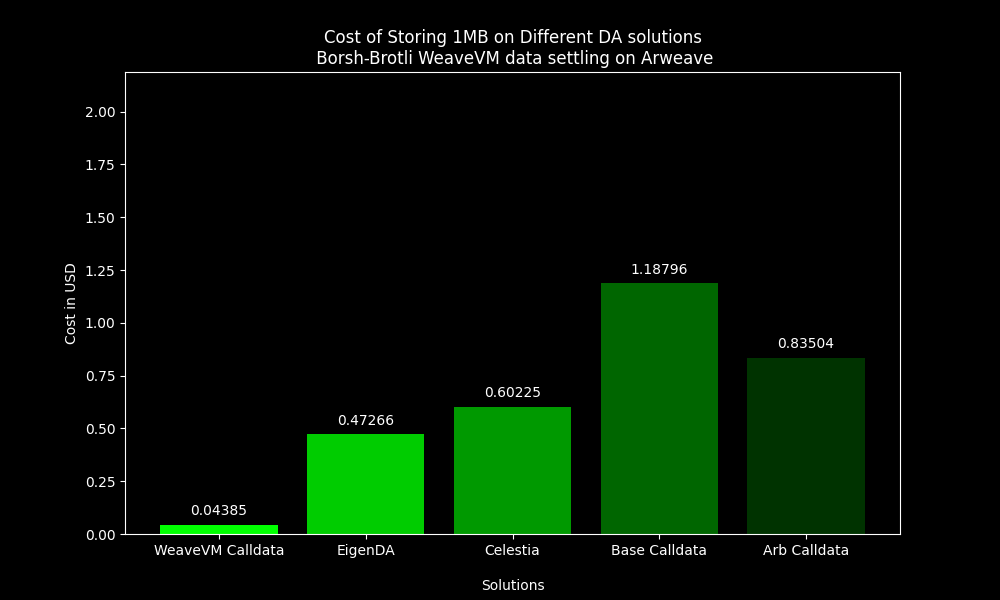
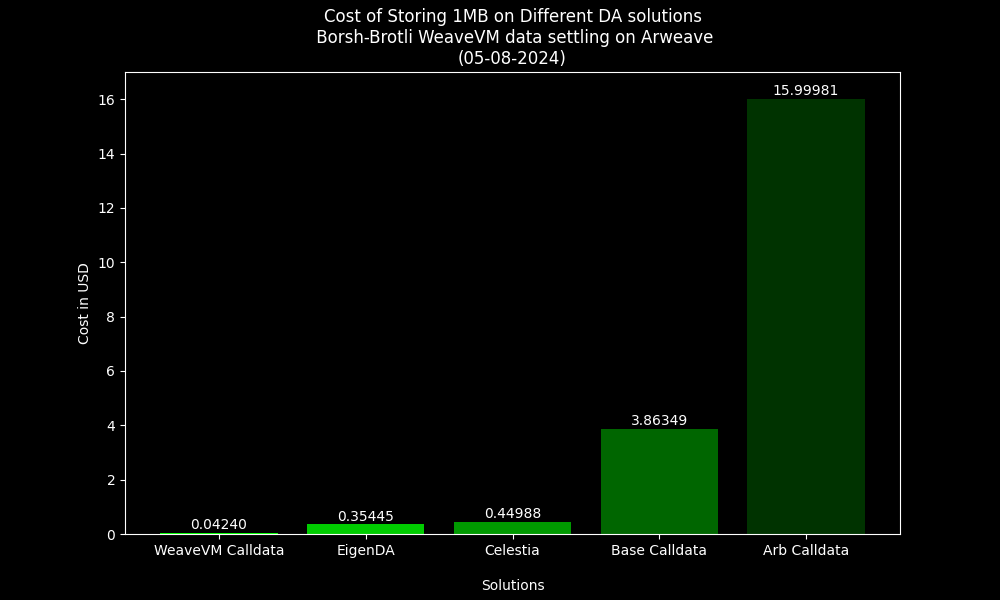
chore: refactor borsh_brotli_wvm_cost_testnet_v0.5

diff --git a/borsh_brotli_wvm_cost_testnet_v0.5/borsh_brotli_wvm_cost_testnet_v0.5.py b/borsh_brotli_wvm_cost_testnet_v0.5/borsh_brotli_wvm_cost_testnet_v0.5.py
@@ -18,27 +18,27 @@ BASE_FEE = 21_000
 CALLDATA_GAS_PER_BYTE = 16
 WVM_CALLDATA_GAS_PER_BYTE = 8
 GWEI_TO_ETH = 1e-9
-ETH_BASE_FEE_GWEI = 5
+ETH_BASE_FEE_GWEI = 55
 WVM_BASE_FEE_GWEI = 1.5
 CELESTIA_BASE_FEE_GWEI = 8
-BASE_BASE_FEE_GWEI = 0.017
-ARB_BASE_FEE_GWEI = 0.01
+BASE_BASE_FEE_GWEI = 0.03
+ARB_BASE_FEE_GWEI = 0.351
 EIGEN_DA_PER_GB_PRICE = 0.15 # 0.15 ETH
-CELETIA_GAS_PRICE = 0.0143 # uTIA source: https://celenium.io/gas
+CELETIA_GAS_PRICE = 0.0125 # uTIA source: https://celenium.io/gas
 
 ETH_PRICE = 0
 AR_PRICE = 0
 BASE_PRICE = 0
 TIA_PRICE = 0
-ARWEAVE_128KB_PRICE = 0
+ARWEAVE_1MB_PRICE = 0
 
 # for plot
-PLOT_WVM_128KB_USD_COST = 0
-PLOT_ETH_CALLDATA_128KB_USD_COST = 0
-PLOT_BASE_CALLDATA_128KB_COST = 0
-PLOT_ARB_CALLDATA_128KB_COST = 0
-PLOT_EIGENDA_CALLDATA_128KB_COST = 0
-PLOT_CELESTIA_CALLDATA_128KB_COST = 0
+PLOT_WVM_1MB_USD_COST = 0
+PLOT_ETH_CALLDATA_1MB_USD_COST = 0
+PLOT_BASE_CALLDATA_1MB_COST = 0
+PLOT_ARB_CALLDATA_1MB_COST = 0
+PLOT_EIGENDA_CALLDATA_1MB_COST = 0
+PLOT_CELESTIA_CALLDATA_1MB_COST = 0
 
 def get_winston_cost_of(input_byte):
     res = requests.get(f"https://arweave.net/price/{input_byte}")
@@ -50,8 +50,8 @@ def get_winston_cost_of(input_byte):
 # fetch winston cost to store on Arweave
 arweave_gateway_res = requests.get(ARWEAVE_1MB_BORSH_GZIP_PRICE_URL)
 if arweave_gateway_res.status_code == 200:
-    ARWEAVE_128KB_PRICE = arweave_gateway_res.text  
-    print(ARWEAVE_128KB_PRICE)
+    ARWEAVE_1MB_PRICE = arweave_gateway_res.text  
+    print(ARWEAVE_1MB_PRICE)
 else:
     print("Failed to fetch data: Status code", arweave_gateway_res.status_code)
 
@@ -69,34 +69,34 @@ if coingecko_res.status_code == 200:
 else:
     print("err: ", coingecko_res.status_code)
 
-def weavevm_128kb_usd_cost():
-    arweave_128kb_usd_cost = float(ARWEAVE_128KB_PRICE) * AR_PRICE * 1e-12
-    wvm_128kb_calldata = WVM_CALLDATA_GAS_PER_BYTE * CASE_STUDY_1MB * WVM_BASE_FEE_GWEI * GWEI_TO_ETH * 3.25
-    PLOT_WVM_128KB_USD_COST = wvm_128kb_calldata + arweave_128kb_usd_cost
-    print(PLOT_WVM_128KB_USD_COST)
-    return PLOT_WVM_128KB_USD_COST
+def weavevm_1mb_usd_cost():
+    arweave_1mb_usd_cost = float(ARWEAVE_1MB_PRICE) * AR_PRICE * 1e-12
+    wvm_1mb_calldata = WVM_CALLDATA_GAS_PER_BYTE * CASE_STUDY_1MB * WVM_BASE_FEE_GWEI * GWEI_TO_ETH * 3.25
+    PLOT_WVM_1MB_USD_COST = wvm_1mb_calldata + arweave_1mb_usd_cost
+    print(PLOT_WVM_1MB_USD_COST)
+    return PLOT_WVM_1MB_USD_COST
 
 def eth_overhead_tx_usd_cost():
     return (BASE_FEE * ETH_BASE_FEE_GWEI * GWEI_TO_ETH * ETH_PRICE)
 
-def eth_calldata_128kb_usd_cost():
-    eth_128kb_cost = CALLDATA_GAS_PER_BYTE * CASE_STUDY_1MB * ETH_BASE_FEE_GWEI * GWEI_TO_ETH * ETH_PRICE
-    print(eth_128kb_cost)
-    return eth_128kb_cost
+def eth_calldata_1mb_usd_cost():
+    eth_1mb_cost = CALLDATA_GAS_PER_BYTE * CASE_STUDY_1MB * ETH_BASE_FEE_GWEI * GWEI_TO_ETH * ETH_PRICE
+    print(eth_1mb_cost)
+    return eth_1mb_cost
 
-def base_calldata_128kb_usd_cost():
+def base_calldata_1mb_usd_cost():
     eth_settling_cost = eth_overhead_tx_usd_cost()
-    base_128kb_cost = CALLDATA_GAS_PER_BYTE * CASE_STUDY_1MB * BASE_BASE_FEE_GWEI * GWEI_TO_ETH * ETH_PRICE
-    PLOT_BASE_CALLDATA_128KB_COST = base_128kb_cost + eth_settling_cost
-    return PLOT_BASE_CALLDATA_128KB_COST
+    base_1mb_cost = CALLDATA_GAS_PER_BYTE * CASE_STUDY_1MB * BASE_BASE_FEE_GWEI * GWEI_TO_ETH * ETH_PRICE
+    PLOT_BASE_CALLDATA_1MB_COST = base_1mb_cost + eth_settling_cost
+    return PLOT_BASE_CALLDATA_1MB_COST
 
-def arb_calldata_128kb_usd_cost():
+def arb_calldata_1mb_usd_cost():
     eth_settling_cost = eth_overhead_tx_usd_cost()
-    arb_128kb_cost = CALLDATA_GAS_PER_BYTE * CASE_STUDY_1MB * ARB_BASE_FEE_GWEI * GWEI_TO_ETH * ETH_PRICE
-    PLOT_ARB_CALLDATA_128KB_COST = arb_128kb_cost + eth_settling_cost
-    return PLOT_ARB_CALLDATA_128KB_COST
+    arb_1mb_cost = CALLDATA_GAS_PER_BYTE * CASE_STUDY_1MB * ARB_BASE_FEE_GWEI * GWEI_TO_ETH * ETH_PRICE
+    PLOT_ARB_CALLDATA_1MB_COST = arb_1mb_cost + eth_settling_cost
+    return PLOT_ARB_CALLDATA_1MB_COST
 
-def eigenda_128kb_usd_cost():
+def eigenda_1mb_usd_cost():
     cost_per_gb_eth = 0.15  # Cost to store 1 GB in ETH
     cost_per_mb_eth = cost_per_gb_eth / 1000
     cost_per_kb_eth = cost_per_mb_eth / 1000
@@ -104,16 +104,16 @@ def eigenda_128kb_usd_cost():
     return PLOT_EIGENDA_CALLDATA_1MB_COST
     
 
-def celestia_128kb_usd_cost():
-    PLOT_CELESTIA_CALLDATA_128KB_COST = CASE_STUDY_1MB * CELESTIA_BASE_FEE_GWEI * CELETIA_GAS_PRICE * 1e-6 * TIA_PRICE
-    return (PLOT_CELESTIA_CALLDATA_128KB_COST)
+def celestia_1MB_usd_cost():
+    PLOT_CELESTIA_CALLDATA_1MB_COST = CASE_STUDY_1MB * CELESTIA_BASE_FEE_GWEI * CELETIA_GAS_PRICE * 1e-6 * TIA_PRICE
+    return (PLOT_CELESTIA_CALLDATA_1MB_COST)
 
 # Names of the platforms
 platforms = ['WeaveVM Calldata', 'EigenDA', 'Celestia', 'Base Calldata', 'Arb Calldata'] # add: 'Ethereum Calldata'
 
-print(PLOT_WVM_128KB_USD_COST)
-# Corresponding costs in USD for storing 128KB
-costs = [weavevm_128kb_usd_cost(),eigenda_128kb_usd_cost(), celestia_128kb_usd_cost(), base_calldata_128kb_usd_cost(), arb_calldata_128kb_usd_cost()] # add: eth_calldata_128kb_usd_cost()
+print(PLOT_WVM_1MB_USD_COST)
+# Corresponding costs in USD for storing 1MB
+costs = [weavevm_1mb_usd_cost(),eigenda_1mb_usd_cost(), celestia_1MB_usd_cost(), base_calldata_1mb_usd_cost(), arb_calldata_1mb_usd_cost()] # add: eth_calldata_1mb_usd_cost()
 
 plt.style.use('dark_background')
 # Create a bar plot
@@ -122,7 +122,7 @@ plt.figure(figsize=(10, 6))
 colors = ['#00ff00', '#00cc00', '#009900', '#006600', '#003300']  # Different shades of green
 bars = plt.bar(platforms, costs, color=colors)
 # Add title and labels
-plt.title('Cost of Storing 1MB on Different DA solutions\n Borsh-Brotli WeaveVM data settling on Arweave')
+plt.title('Cost of Storing 1MB on Different DA solutions\n Borsh-Brotli WeaveVM data settling on Arweave\n(05-08-2024)')
 plt.xlabel('\nSolutions')
 plt.ylabel('Cost in USD')
 plt.ylim(0, max(costs) + 1)  # Add some space above the highest bar
